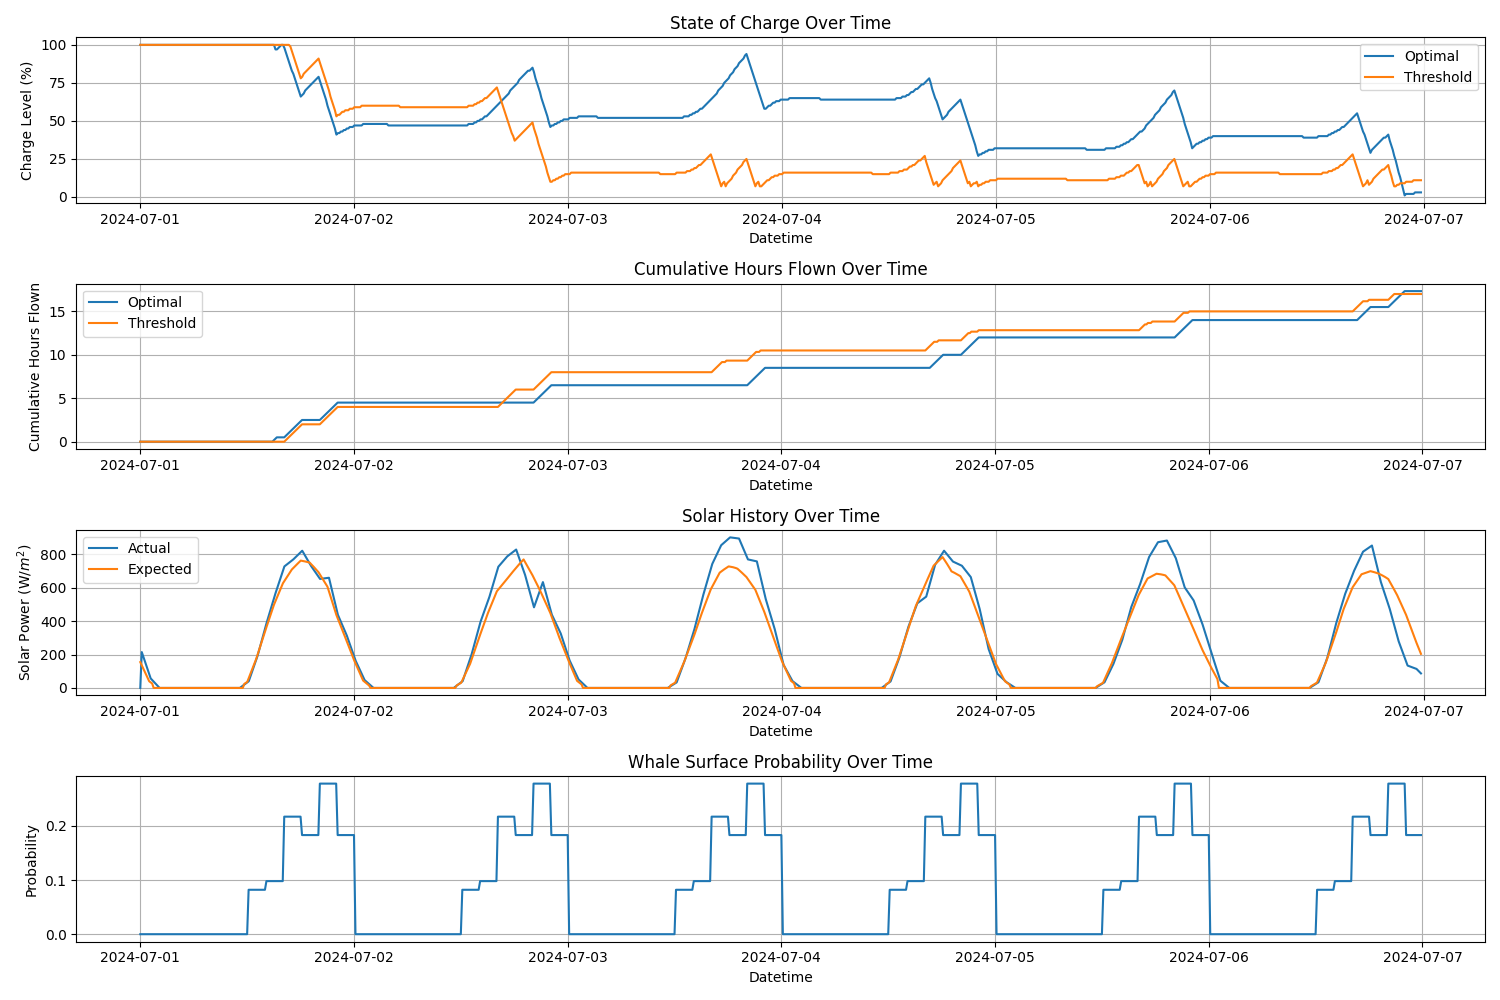
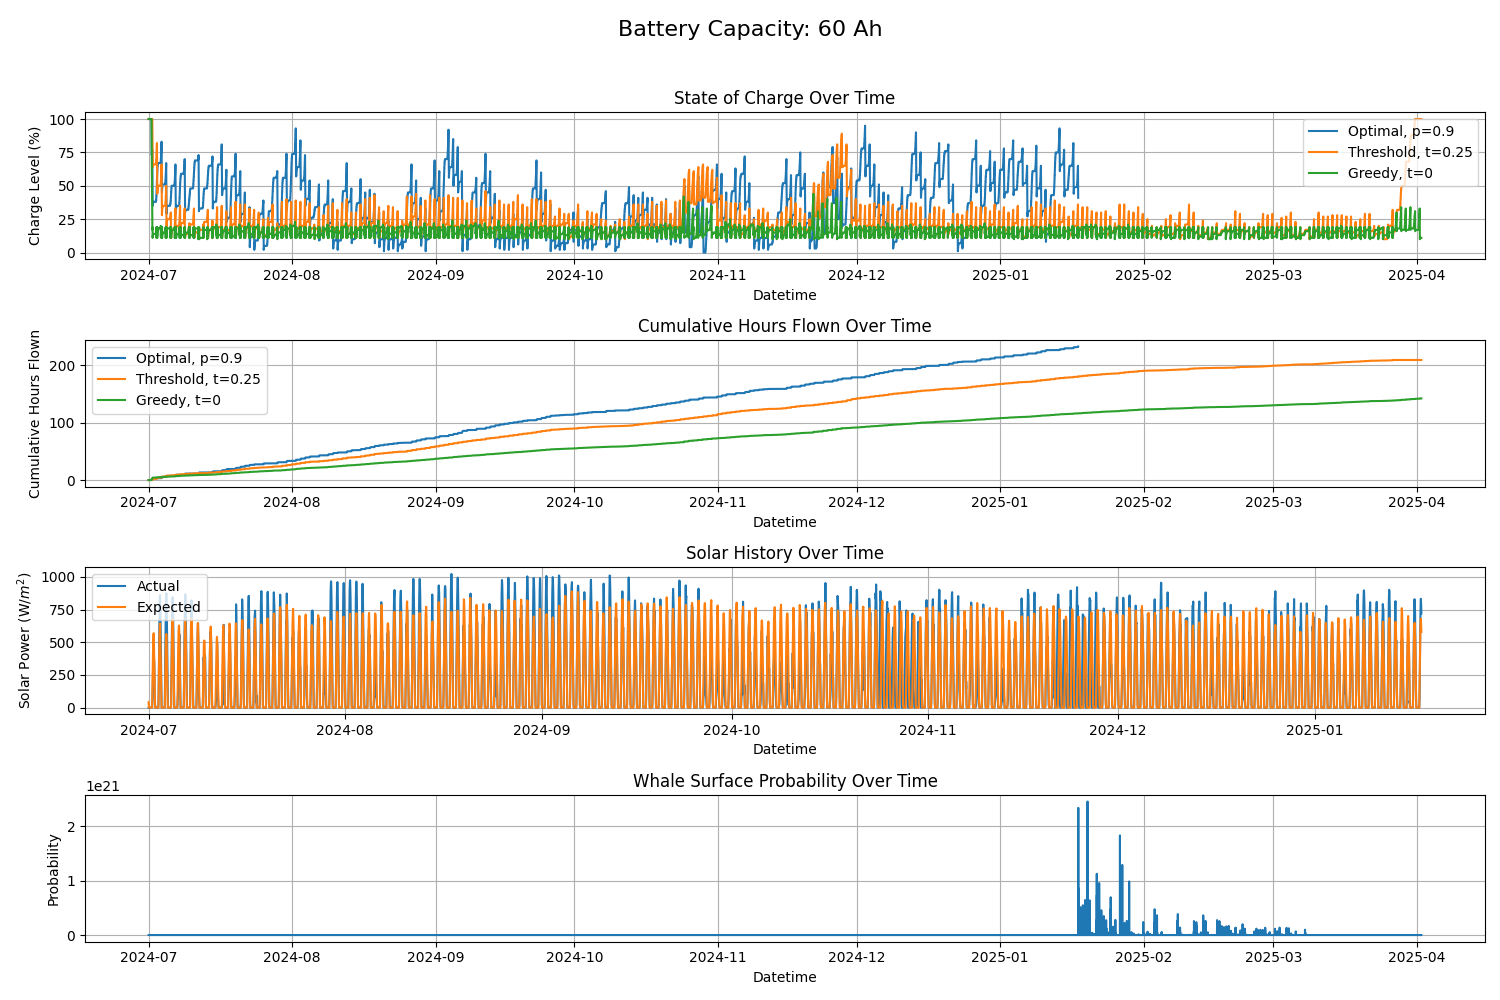
Meeting 12-5

diff --git a/SolarSimulator/BaseClasses/plotting_base.py b/SolarSimulator/BaseClasses/plotting_base.py
@@ -25,7 +25,6 @@ class SolarChargePlotter:
         df = pd.read_pickle(file_path)
         return df.head(1)
 
-<<<<<<< HEAD
     def extract_parameters_from_filename(self, filename):
         """
         Extracts 'cap' and either 'p' or 'mdp_success_prob' from the filename.
@@ -49,8 +48,6 @@ class SolarChargePlotter:
         else:
             return "Unknown"
 
-=======
->>>>>>> c4cd1f504e38e01057eb167164573c942c708b88
     def plot_data(self):
         """Plot the state of charge, solar history, and cumulative hours flown for the first entry in each file in the directory."""
         import re
@@ -444,7 +441,7 @@ class DataProcessor:
                 ax.set_title(title)
                 ax.set_xlabel("Whales Spotted")
                 ax.set_ylabel("Number of Cases")
-                ax.set_xlim((0, 175))
+                ax.set_xlim((0, 100))
                 ax.tick_params(axis="x", which="both", labelbottom=True)
             else:
                 print(f"No 'Reward' column found in {filename}. Skipping this file.")
@@ -472,17 +469,27 @@ class DataProcessor:
 
 
 if __name__ == '__main__':
-<<<<<<< HEAD
-    dt=10
-    utc_offset = timezone(timedelta(hours=-6))
-    start_date = pd.to_datetime(datetime(2019,6,2).replace(tzinfo=utc_offset))
-    end_date = pd.to_datetime(datetime(2019,7,2).replace(tzinfo=utc_offset))
-=======
-    dt=30
-    utc_offset = timezone(timedelta(hours=0))
-    start_date = pd.to_datetime(datetime(2024,1,1).replace(tzinfo=utc_offset))
-    end_date = pd.to_datetime(datetime(2024,2,1).replace(tzinfo=utc_offset))
->>>>>>> c4cd1f504e38e01057eb167164573c942c708b88
-    plotter = SolarChargePlotter(r".",start_date=start_date,time_step=f"{dt}min")
-    # plotter.plot_data()
-    plotter.plot_reward_vs_threshold()
+    # # dire = r"Results\12-4\1month"
+    # dire = r"Results\12-4\3month"
+    # # dire = r"Results\12-4\8month"
+    # dire = r"Results\12-4\1month\1"
+    dire = r"."
+    
+    processor = DataProcessor(directory=dire)  # Use "." for the current directory
+    processor.process_files()
+    df = processor.get_results_df()
+    processor.plot_all_data()
+    
+    # Histogram
+    # processor.process_files()
+    processor.plot_reward_histogram(r"Figures\Histogram")
+    # mcs_results = processor.get_results_df()
+
+    # # Plot States
+    # direct = r"Figures\Histogram"
+    # utc_offset = timezone(timedelta(hours=0))
+    # start_date = pd.to_datetime(datetime(2024,3,1).replace(tzinfo=utc_offset))
+    # solar = SolarChargePlotter(direct,start_date,"10min")
+    # # solar.plot_data()
+    # solar.plot_reward_vs_threshold()
+    # # processor.calculate_percent_improvement(mcs_results).to_csv("Improvement.csv")

diff --git a/SolarSimulator/BaseClasses/run_sim.py b/SolarSimulator/BaseClasses/run_sim.py
@@ -180,7 +180,7 @@ class SolarPlaneSimulation:
             for mdp_prob in mdp_probs:
                 tasks.append((cap, "Optimal", None, mdp_prob, success_prob))
 
-        num_cores_to_use = max(1, os.cpu_count() - 1)  # Leave 1 core free
+        num_cores_to_use = max(1, os.cpu_count() - 2)  # Leave 1 core free
 
         try:
             with Pool(processes=num_cores_to_use) as pool:
@@ -211,21 +211,21 @@ if __name__ == "__main__":
     simulation = SolarPlaneSimulation(
         lat=30, lon=-90, tz="Etc/GMT-0",  # Location parameters
         start_date="2024-03-01",          # Simulation start date
-        end_date="2024-03-02",            # Simulation end date
+        end_date="2024-04-01",            # Simulation end date
         dt=10,                            # Time step in minutes
-        num_runs=1,                     # Number of simulation runs
-        visualize=True,                   # Enable visualization
+        num_runs=1000,                     # Number of simulation runs
+        visualize=False,                   # Enable visualization
         save_dir=r".", # Directory to save results
-        show=True                        # Suppress immediate plot display
+        show=False                        # Suppress immediate plot display
     )
 
     # Define simulation parameters
     # capacities = [10,20,30,40,50,60,70,80]  # Battery capacities in Amp-hours
     # thresholds = [0.05,0.1,0.15,0.2,0.25] # Threshold values for 'Threshold' algorithm
-    capacities = [20]  # Battery capacities in Amp-hours
-    thresholds = [0.25] # Threshold values for 'Threshold' algorithm
+    capacities = [20,25,30,35,40,45,50,55,60,65,70,75,80,85,90,95,100]  # Battery capacities in Amp-hours
+    thresholds = [0,0.25] # Threshold values for 'Threshold' algorithm
     mdp_probs = [0.75]                              # MDP success probabilities for 'Optimal' algorithm
-    success_prob = 0.75                             # True success probability
+    success_prob = 0.9                             # True success probability
 
     # Run the simulation
     simulation.run(capacities=capacities, thresholds=thresholds, mdp_probs=mdp_probs, success_prob=success_prob)

diff --git a/SolarSimulator/main.py b/SolarSimulator/main.py
@@ -52,27 +52,16 @@ if __name__ == '__main__':
     time_string = current_time.strftime("%Y-%m-%d_%H-%M-%S")
 
     utc_offset = timezone(timedelta(hours=0))
-<<<<<<< HEAD
     start_date = pd.to_datetime(datetime(2024,7,1).replace(tzinfo=utc_offset))
     end_date = pd.to_datetime(datetime(2024,7,7).replace(tzinfo=utc_offset))
-=======
-    start_date = pd.to_datetime(datetime(2024,1,1).replace(tzinfo=utc_offset))
-    end_date = pd.to_datetime(datetime(2024,1,10).replace(tzinfo=utc_offset))
->>>>>>> c4cd1f504e38e01057eb167164573c942c708b88
 
     capacities = [20]
     mdp_probs = [0.9]
     thresholds = [0.0,0.25]
     success_prob=1.0
-<<<<<<< HEAD
     visualize = True
     dt=10
     NUM_RUNS = 1
-=======
-    visualize = False
-    dt=10
-    NUM_RUNS = 500
->>>>>>> c4cd1f504e38e01057eb167164573c942c708b88
     sim = Simulation(plane, lat, lon, tz, save_history=visualize)
 
     # Run simulation

diff --git a/SolarSimulator/Tools/analyze_results.py b/SolarSimulator/Tools/analyze_results.py
@@ -4,7 +4,6 @@ import datetime
 if __name__ == "__main__":
     directory = r"."
 
-<<<<<<< HEAD
     # plt.figure(figsize=(10, 6))
     # df['Actual'].plot(marker='o', label='SSRD=2019 Data')
     # df['Expected'].plot(marker='x', linestyle='--', label='SSRD=Expected Data')
@@ -22,10 +21,6 @@ if __name__ == "__main__":
     processor.process_files()
     df = processor.get_results_df()
     processor.calculate_percent_improvement(df).to_csv("test.csv")
-=======
-    # Generate figure
-    processor = DataProcessor(directory=directory)  # Use "." for the current directory
->>>>>>> c4cd1f504e38e01057eb167164573c942c708b88
     processor.plot_all_data()
     
     # Calculate percent improvement
